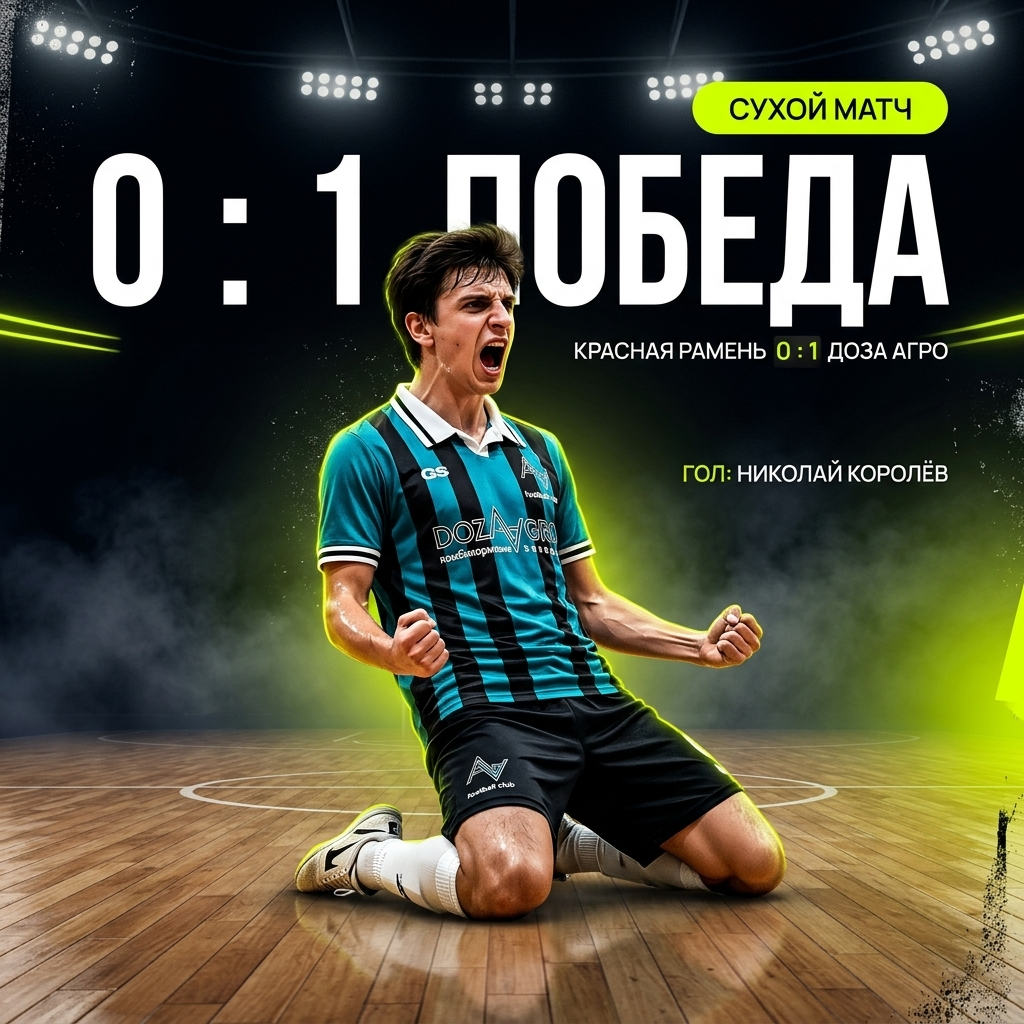
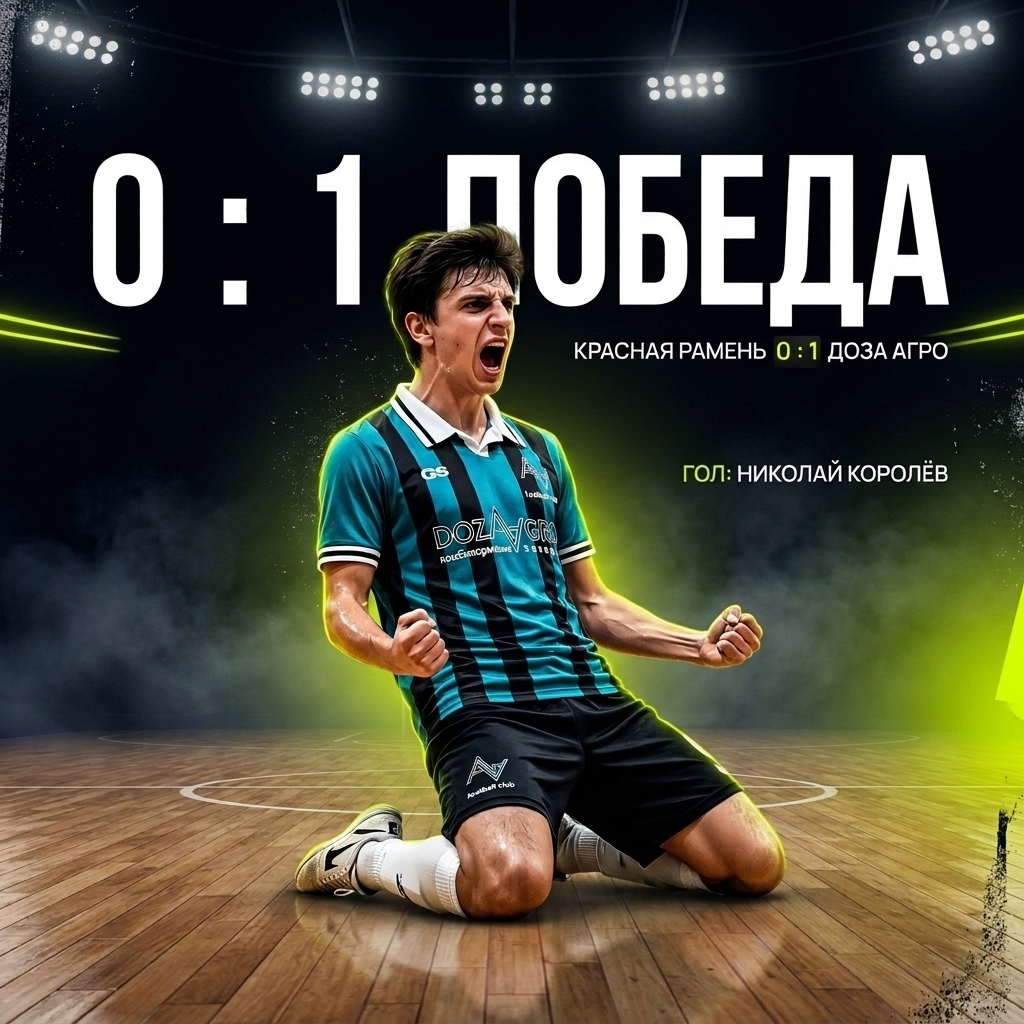
style(smm): remove clean sheet badge from victory poster

diff --git a/smm/posts/2026-10-27_victory_1_0.md b/smm/posts/2026-10-27_victory_1_0.md
@@ -1,8 +1,8 @@
 # Пост победы: Красная Рамень 0 : 1 Доза Агро (27.10.2026)
 
 **Медиа к посту:** 
-- `smm/media/2026-10-26_victory_1_0.jpg` (основной постер: Николай Королёв по реальным фото, полосатое поло «Доза Агро», стиль сайта Bianconeri & Neon Volt)
-- `smm/media/2026-10-26_victory_1_0_korolev_real.jpg` (копия нового постера с Королёвым)
+- `smm/media/2026-10-26_victory_1_0.jpg` (основной постер: Николай Королёв по реальным фото, полосатое поло «Доза Агро», стиль сайта Bianconeri & Neon Volt, без лишних плашек)
+- `smm/media/2026-10-26_victory_1_0_korolev_real.jpg` (копия чистого постера с Королёвым)
 - `smm/media/2026-10-26_victory_1_0_bianconeri_matchday.jpg` (альтернативный визуал с Максимом Балашовым)
 - `smm/media/2026-10-26_victory_1_0_old_gold.jpg` (архивный исходник)
 
